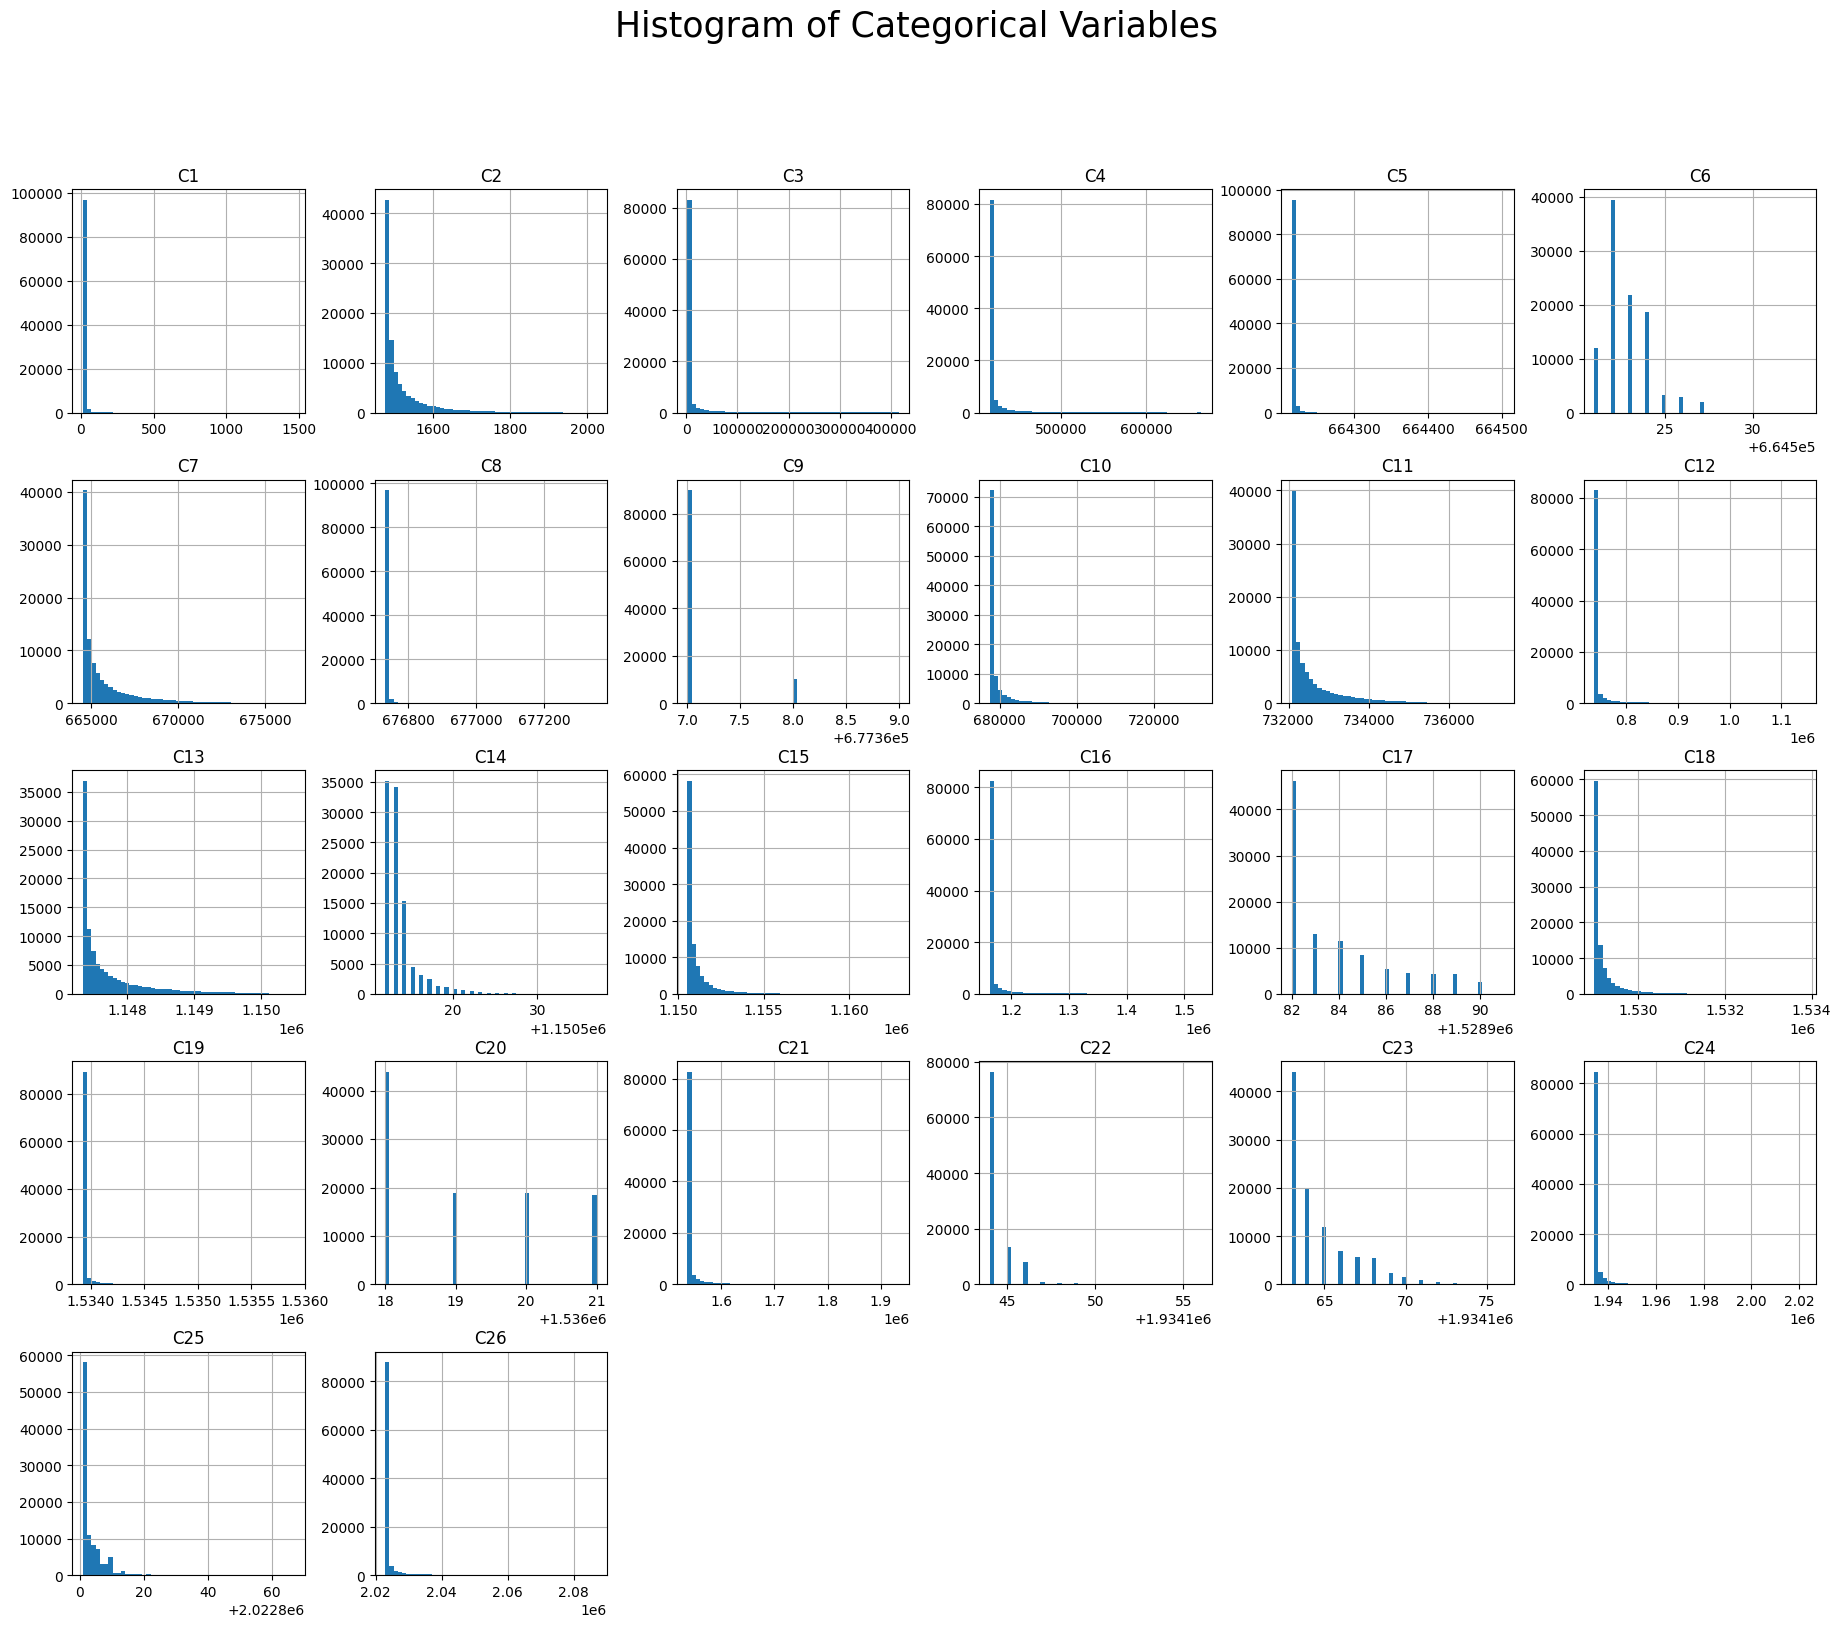
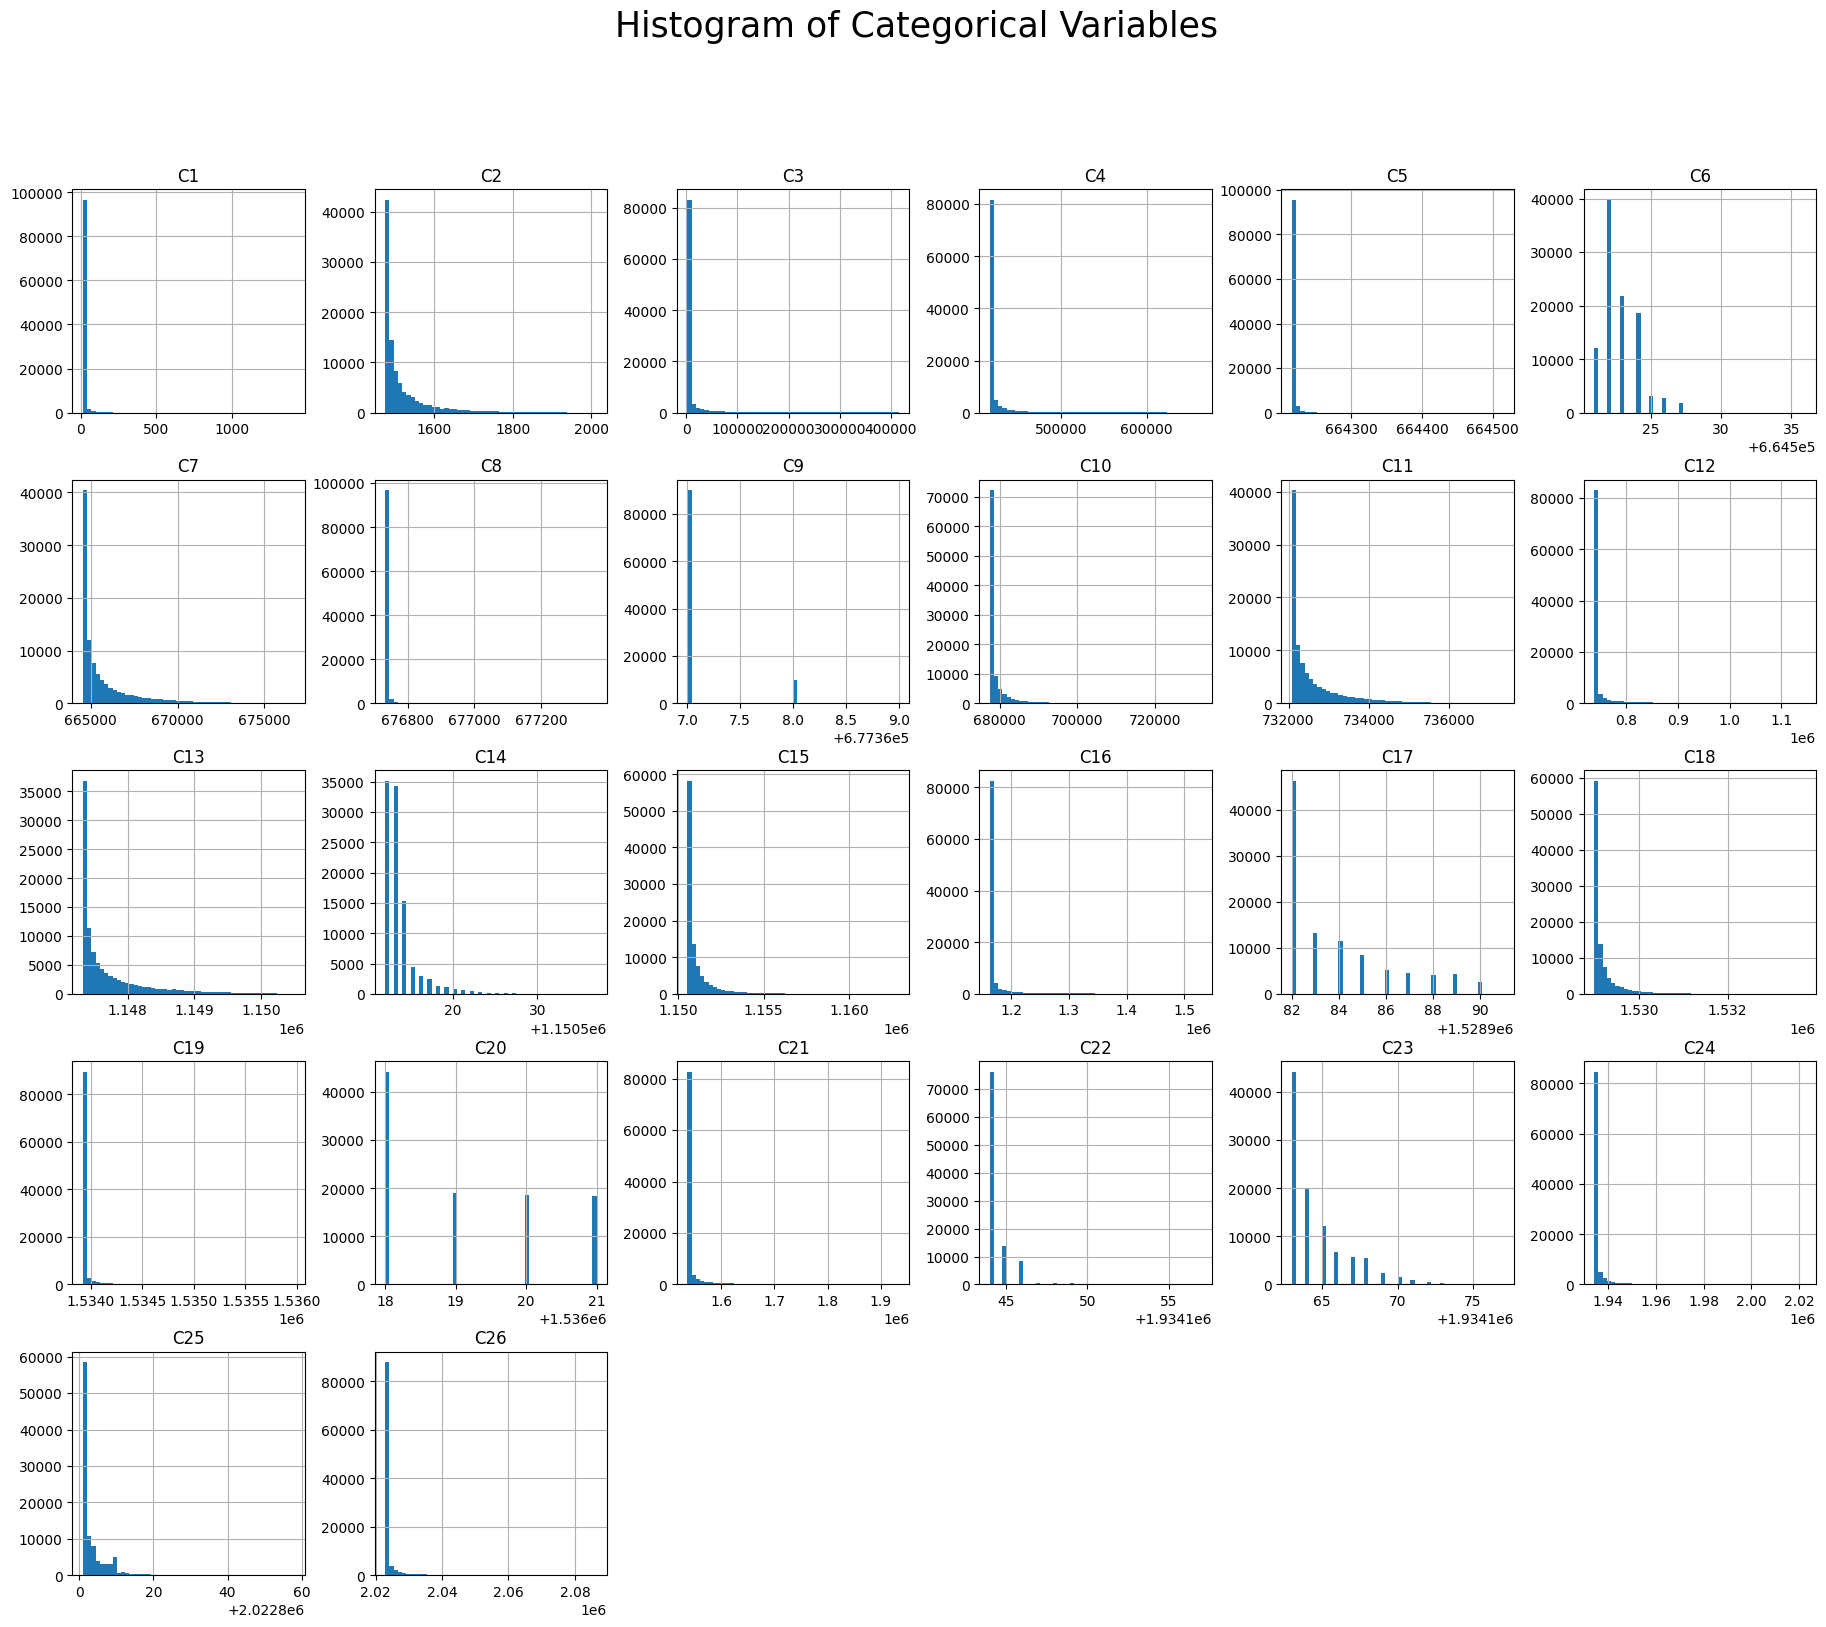
Fixed bugs identified by running on remote server.
Shuffles csv data files across entire epoch. Seemed to be some drift in distribution of data across the epoch before.

diff --git a/preprocessing.py b/preprocessing.py
@@ -1,3 +1,5 @@
+import os
+import time
 import subprocess
 import pickle
 
@@ -59,7 +61,7 @@ if __name__ == '__main__':
 
     # Calculate embedding dims
     embed_dims = (6*df[cat_cols].nunique()**0.25).apply(int)
-    embed_dims.to_csv('data/embed_dims.csv', header=['embed_dim'],
+    embed_dims.to_csv('data/vocab/embed_dims_sample.csv', header=['embed_dim'],
                       index_label='feature')
     fig, axis = plt.subplots(1, 1, figsize=(8, 8))
     embed_dims.plot.bar()
@@ -73,28 +75,31 @@ if __name__ == '__main__':
     (embed_dims.apply(lambda x: int(6 * (x ** 0.25)))*embed_dims).sum()
     # single embedding for all features combined
     int(int(6*(embed_dims.sum()**0.25))*embed_dims.sum())
+    df[cat_cols].nunique().to_csv('data/vocab/vocabs_sample.csv')
 
     # Save vocab sizes for various samples and thresholds
-    df[cat_cols].nunique().to_csv('data/vocabs_sample.csv')
-    # check against full file
-    vocab_size = {}
-    # col_dtypes = [np.float32]*len(int_cols) + [np.int16]*len(cat_cols)
     thresholds = [0, 10, 100, 1000, 10000]
-    vocab = {}
-    import time
-
+    vocab = {threshold : {} for threshold in thresholds}
+    vocab_size = {threshold: {} for threshold in thresholds}
+    if not os.path.exists('data/vocab'):
+        os.makedirs('data/vocab')
     for col in cat_cols:  # skip labels
         # remove
         tic = time.time()
         df_col = pd.read_csv('data/Criteo_x1/train.csv', usecols=[col], header=0, engine="c", dtype=np.int64)
         counts = df_col[col].value_counts()
-        for THRESHOLD in thresholds:
-            values = counts[counts > THRESHOLD].index.values
-            vocab_size[col] = len(np.unique(values))
-            vocab[col] = np.unique(values).tolist()
-            print(f'Column {col} cardinality = {vocab_size[col]}, t={time.time()/60 - tic/60: .4}')
-            pd.Series(vocab_size).to_csv(f'data/vocab/vocabs_all_data_thresh{THRESHOLD}.csv')
-            with open(f'data/vocab/vocab_all_data_thresh{THRESHOLD}.pkl', 'wb') as fp:
-                # Dict[List[int]]
-                pickle.dump(vocab, fp)
-        print(f'saved data for {col=}')
+        for threshold in thresholds:
+            values = counts[counts > threshold].index.values
+            vocab_size[threshold][col] = len(np.unique(values))
+            vocab[threshold][col] = np.unique(values).tolist()
+            print(f'Column {col} cardinality = {vocab_size[threshold][col]}, t={time.time() / 60 - tic / 60: .4}')
+
+    print('Saving vocab files...')
+    for threshold in thresholds:
+        pd.Series(vocab_size[threshold]).to_csv(
+            f'data/vocab/vocabs_all_data_thresh{threshold}.csv')
+        with open(
+                f'data/vocab/vocab_all_data_thresh{threshold}.pkl', 'wb') as fp:
+            # Save a Dict[List[int]]
+            pickle.dump(vocab[threshold], fp)
+        print(f'saved data for {threshold=}')

diff --git a/main.py b/main.py
@@ -16,11 +16,11 @@ if __name__ == '__main__':
     # DCN.create_mlp_model(dense_layers=5, units=1024, dropout_rate=0.5,
     #                      plot_file='./docs/images/MLP_vocab00.png')
     DCN = DeepCrossNetwork(
-        vocab_file='data/vocab/vocab_all_data_thresh0.pkl',
-        save_path='model/DCN_vocab00')
+        vocab_file='data/vocab/vocab_all_data_thresh100.pkl',
+        save_path='model/DCN_shuffle')
     DCN.create_dcn_model(
         cross_layers=6, dense_layers=2, units=1024, dropout_rate=0.5,
-        plot_file='./docs/images/DCN_vocab00.png')
+        plot_file='./docs/images/DCN_shuffle.png')
 
     # create input data
     valid = tf.data.Dataset.load('data/tfdata/valid.data')
@@ -37,7 +37,7 @@ if __name__ == '__main__':
     # Define callbacks
     tb_callback = tf.keras.callbacks.TensorBoard(
         log_dir=logdir, histogram_freq=1, update_freq=3000,
-        embeddings_freq=1)
+        embeddings_freq=1, write_graph=True)
     checkpoint = tf.keras.callbacks.ModelCheckpoint(
         f'{DCN.save_path}/checkpoint.model'+'.{epoch:02d}.keras',
         monitor='val_loss',
@@ -51,18 +51,17 @@ if __name__ == '__main__':
     # Save metrics to CSV file for easy plotting.
     csv_logger = tf.keras.callbacks.CSVLogger(
         f'{DCN.save_path}/training_log_metrics.csv')
-
     print(f'Training model')
-    BATCH_SIZE = 128*2
+    BATCH_SIZE = 128
     # LR is halfway between SQRT and linear increase.
     LR = 0.001*((BATCH_SIZE/128)**0.75)
     DCN.compile_model(learning_rate=LR)
     DCN.model.summary()
     DCN.history = DCN.model.fit(
-        x=train.batch(BATCH_SIZE),
+        x=train.batch(BATCH_SIZE).prefetch(tf.data.AUTOTUNE),
         epochs=10,
         callbacks=[tb_callback, checkpoint, csv_logger],
-        validation_data=valid.batch(BATCH_SIZE),
+        validation_data=valid.batch(BATCH_SIZE).prefetch(tf.data.AUTOTUNE),
         validation_steps=100_000//BATCH_SIZE
     )
 

diff --git a/create_tf_datasets.py b/create_tf_datasets.py
@@ -1,3 +1,6 @@
+import os
+os.environ["CUDA_VISIBLE_DEVICES"] = "-1"
+import subprocess
 import tensorflow as tf
 import pandas as pd
 from collections import OrderedDict
@@ -20,6 +23,13 @@ def concat_numeric(elem: OrderedDict[str:tf.Tensor], label: tf.Tensor):
     return elem, label
 
 
+def shuffle_csv(file_in: str):
+    os.rename(file_in, 'tmp.csv')
+    subprocess.run(
+        f'( head -n 2 tmp.csv ; tail -n +2 tmp.csv|shuf ) > {file_in}',
+        shell=True)
+
+
 if __name__ == '__main__':
     for file, shards in zip(['sample', 'test', 'valid', 'train'],
                             [2, 10, 20, 80]):
@@ -31,9 +41,17 @@ if __name__ == '__main__':
 
         read_path = f'data/Criteo_x1/{file}.csv'
         save_path = f'data/tfdata/{file}.data'
+
+        # At start of each epoch, batch loss jumps a lot. We need to randomize
+        # across the entire epoch, which is best done offline.
+        print(f'Shuffling file {read_path}.')
+        shuffle_csv(read_path)
+        print(f'Shuffling complete')
+
         data_ts = tf.data.experimental.make_csv_dataset(
             read_path, 1, label_name='label', num_epochs=1)
         print(f'concatenating inputs on dataset')
-        new_data = data_ts.map(concat_numeric)
+        new_data = data_ts.map(
+            concat_numeric, num_parallel_calls=tf.data.AUTOTUNE)
         print(f'saving to {save_path=}')
         new_data.save(save_path, shard_func=shard_func)

diff --git a/DCNmodel.py b/DCNmodel.py
@@ -3,7 +3,6 @@ import pickle
 import os
 
 import pandas as pd
-import numpy as np
 import tensorflow as tf
 from tensorflow.keras import layers
 from tensorflow.keras.activations import relu, sigmoid
@@ -89,13 +88,11 @@ class DeepCrossNetwork:
     ):
         """Creates the max vocab size for each categorical feature."""
         self.save_path = save_path
+        self.vocab_file = vocab_file
+        if not os.path.exists(self.save_path):
+            os.mkdir(self.save_path)
         with open(vocab_file, 'rb') as fp:
-            # Dict[List[int]]
             self.vocabs = pickle.load(fp)
-        # convert from Dict[str: npt.NDArray[np.int_]] to # Dict[List[int]]
-        if isinstance(list(self.vocabs.values())[0], np.ndarray):
-            for col, vocab in self.vocabs.items():
-                self.vocabs[col] = vocab.tolist()
 
         self.embed_dims = {}
         for col, vocab in self.vocabs.items():
